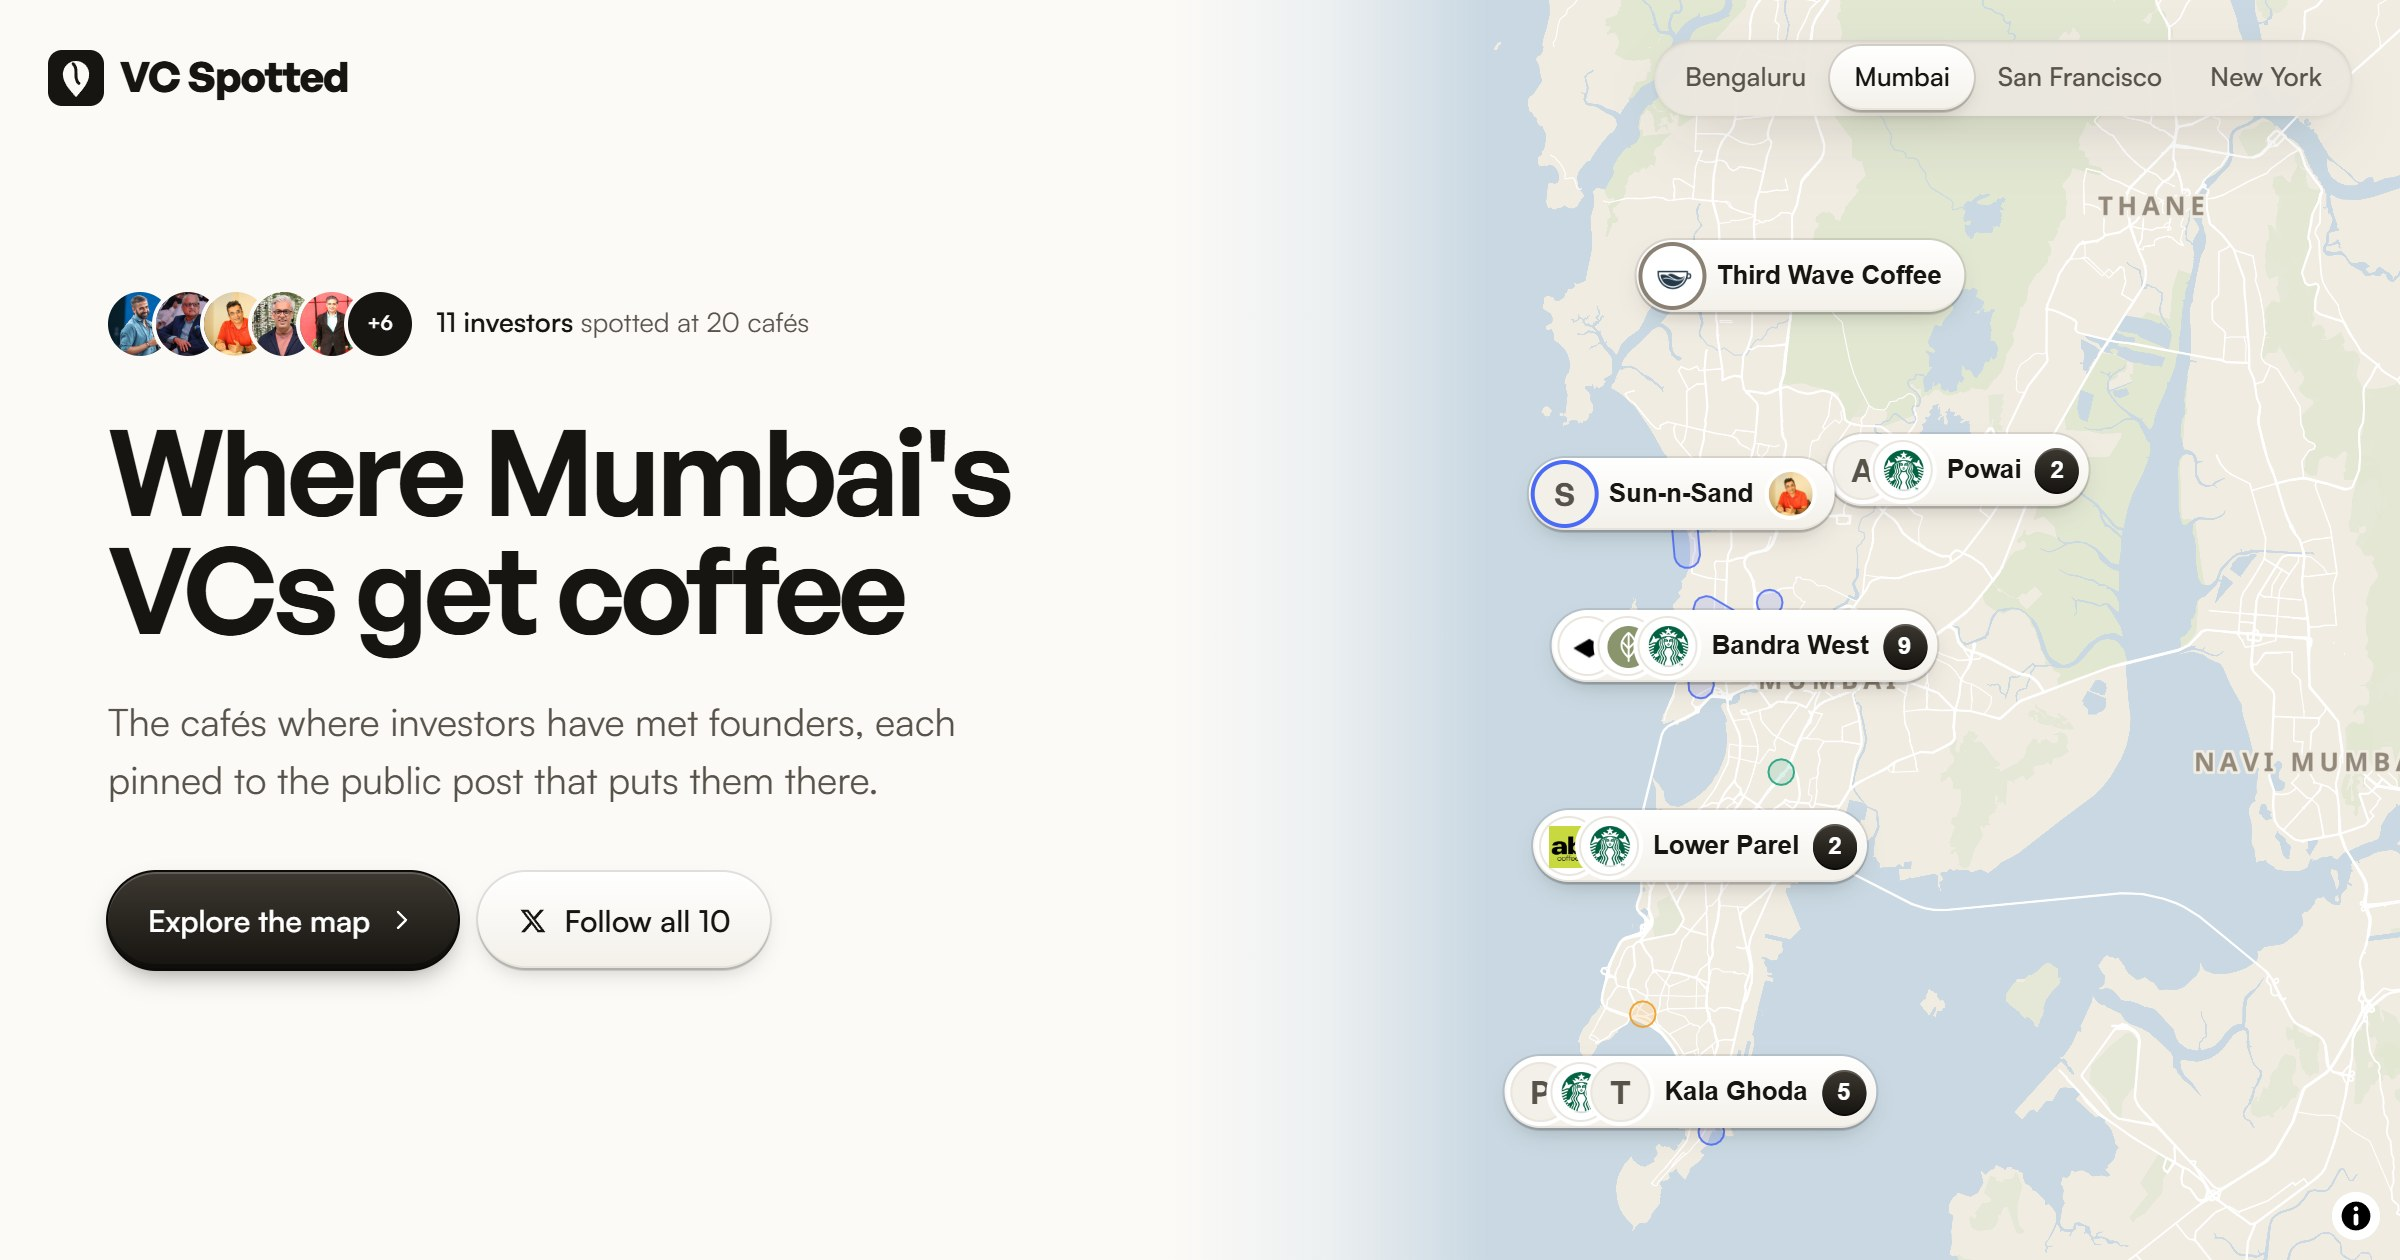
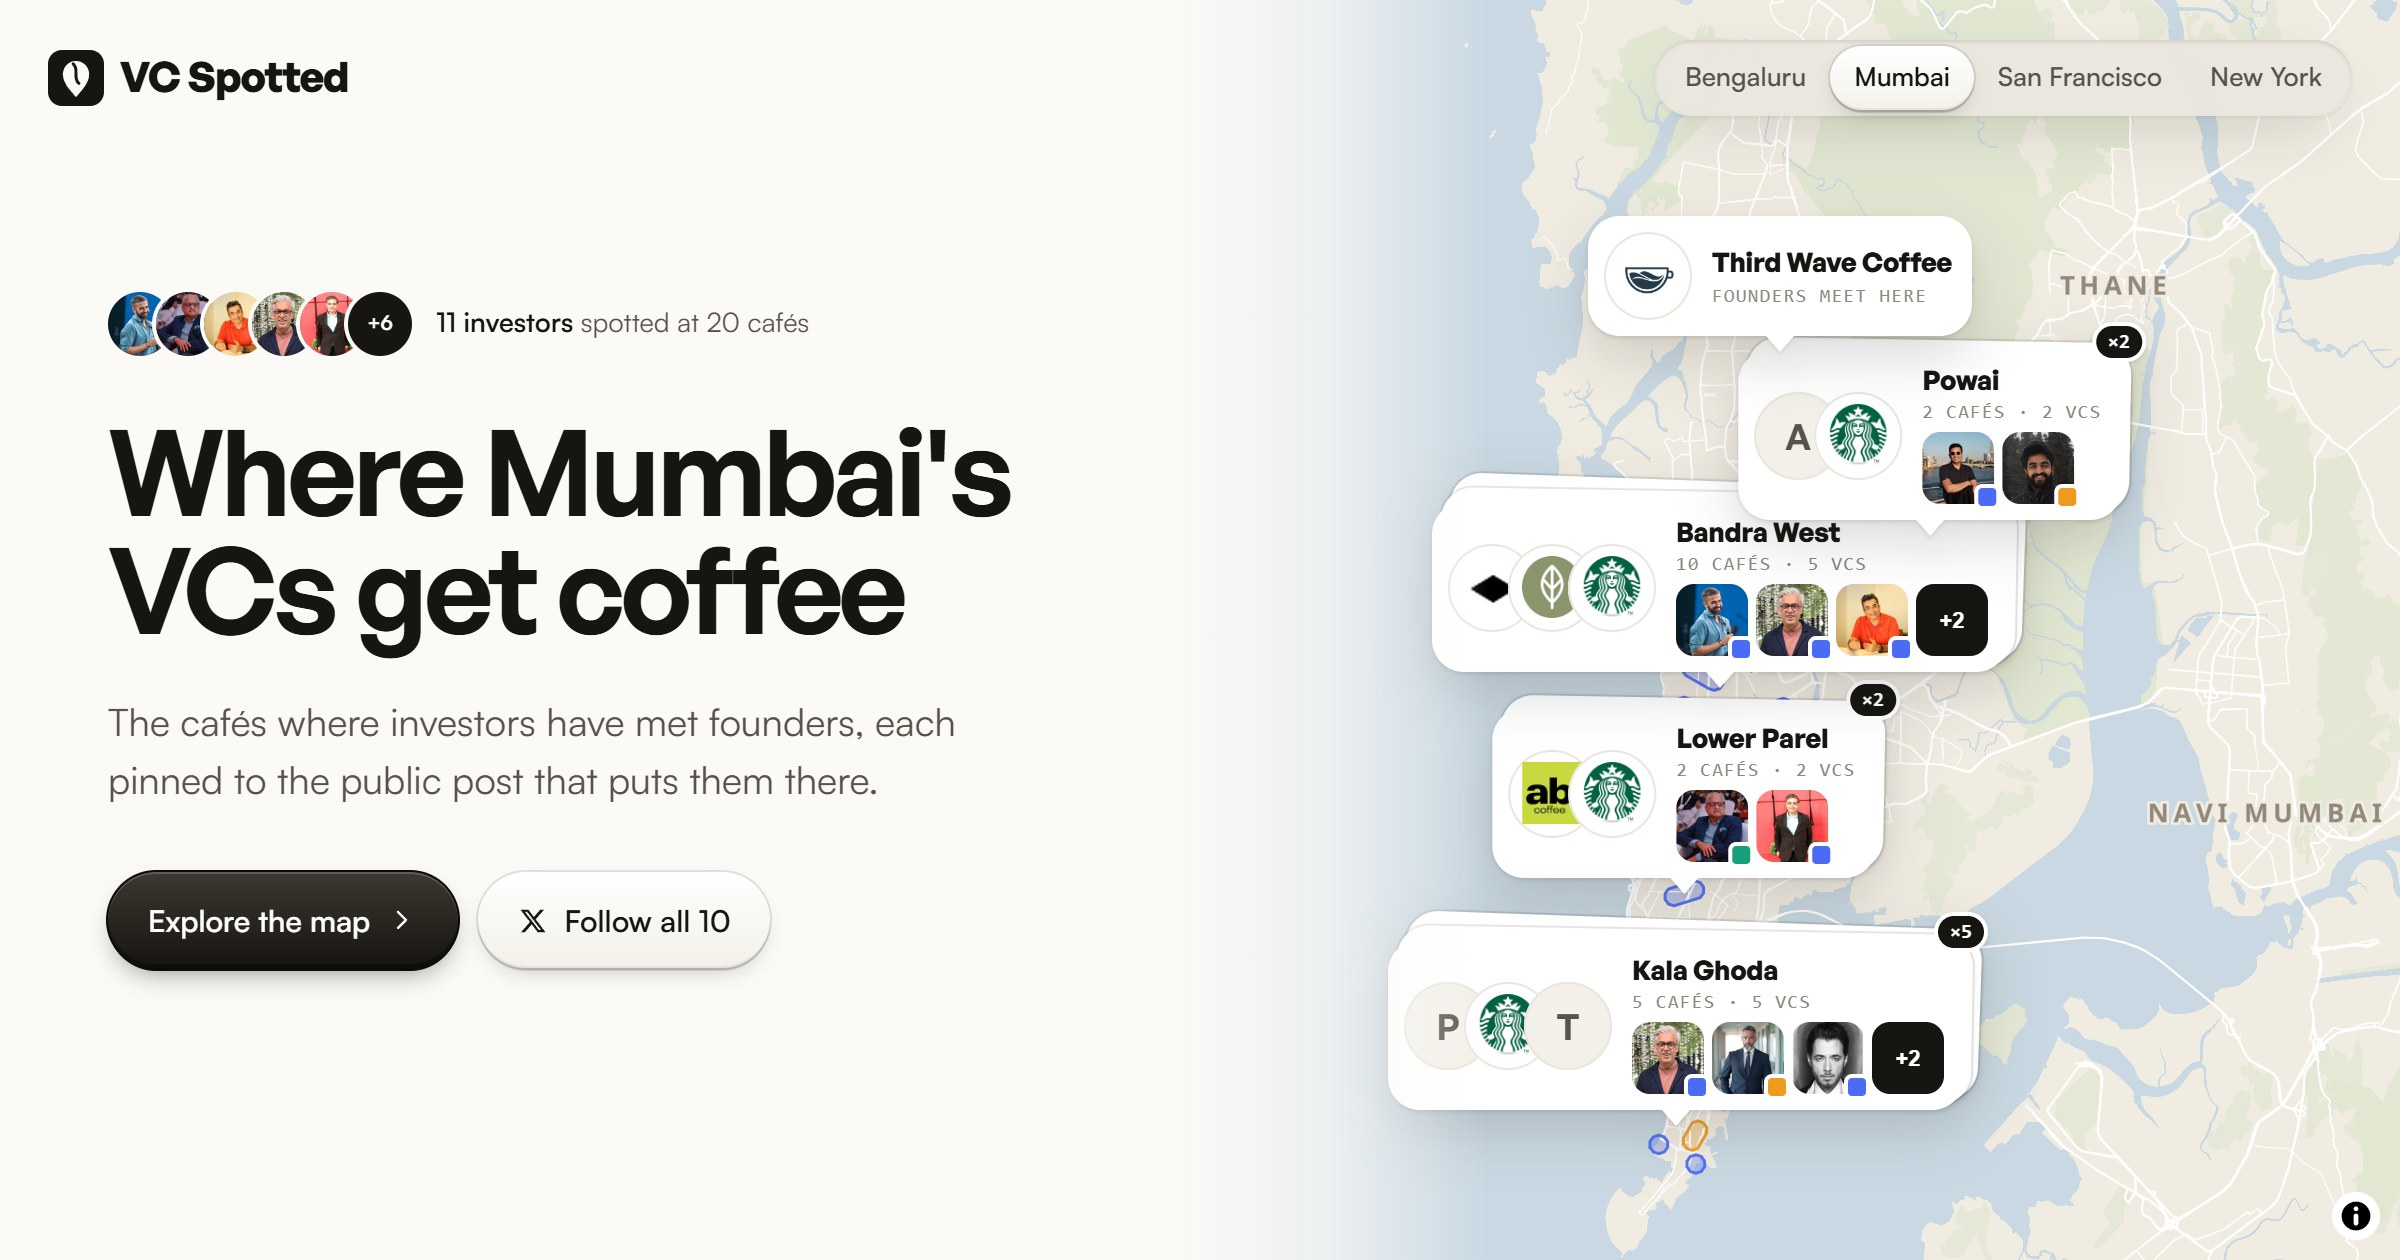
docs: describe the card pins and tinted zones
Preview images re-rendered with the new pins.

diff --git a/README.md b/README.md
@@ -15,12 +15,14 @@ Cities: **Bengaluru**, **Mumbai**, **San Francisco** (with Palo Alto and Menlo P
 
 - **Cover and map.** Each city opens on a cover with the headline and the faces of the investors
   on record. Scrolling, dragging or "Explore the map" clears it.
-- **Pins that carry the story.** Pins show the café's logo, name and the investors seen there.
-  Nearby cafés merge into clusters that open up as you zoom in.
-- **Neighbourhood zones.** Tinted outlines show where meetings cluster. Each is coloured by the
-  kind of investor seen there most: multi-stage funds, seed funds, angels or accelerators.
-- **Side panel.** The full list grouped by neighbourhood, and a page per café with each investor,
-  their receipt, and the other cafés nearby. It sits on the right on wide screens and slides up
+- **Pins that carry the story.** Each café is a card with its logo, name and the faces of the
+  investors seen there, each marked with the kind of cheque they write. Nearby cafés stack into a
+  deck with a count, which fans out as you zoom in.
+- **Neighbourhood zones.** Each neighbourhood with cafés is a tinted block with the streets running
+  through it, coloured by the kind of investor seen there most: multi-stage funds, seed funds,
+  angels or accelerators.
+- **Side panel.** The full list grouped by neighbourhood, and a page per café with each investor
+  set beside the post that puts them there, and the other cafés nearby. It sits on the right on wide screens and slides up
   from the bottom on phones.
 - **Filter by investor type.** The map's legend doubles as a filter, and the list follows it.
 - **Follow on X.** Follow everyone seen at one café, or across the whole city, in one go.
